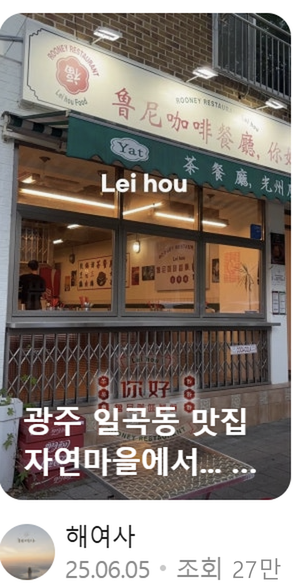
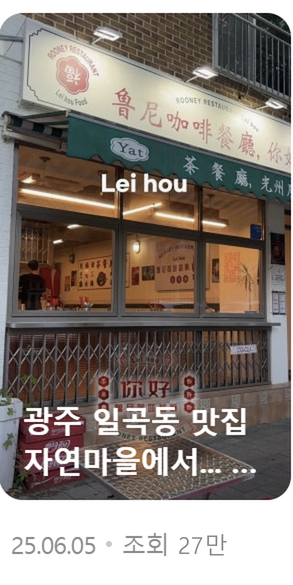
PDF 빛 테두리 깨짐·흐림 잔상 수정, 클립 계정 정보 가림, 주만추 구조도 라벨 간격
- 인쇄에서 회전 빛 테두리(마스크) 대신 얇은 테두리
- 연출이 끝나면 filter를 지워 그라데이션 글자 가장자리 선 제거
- Lei hou 클립 화면에서 계정 이름·프로필 사진 지움
- 주만추 구조도 본인 담당 타일을 내려 라벨과 겹치지 않게

Changed region(s): [[0.0, 0.8923, 0.5836, 1.0], [0.6143, 0.8923, 0.7679, 1.0], [0.7986, 0.9538, 0.9522, 1.0]]

diff --git a/index.html b/index.html
@@ -350,7 +350,10 @@ html.static .ctl,html.static .rot,html.static .hint{display:none}
   .deck-stage{position:static;transform:none!important;width:1920px;height:auto;overflow:visible}
   .slide{position:relative;visibility:visible!important;width:1920px;height:1080px;break-after:page;opacity:1!important}
   .sumov,.blades,.prog,.ctl,.rot,.hint,canvas.dust{display:none!important}
-  .glow,.g,.gl::after,.node::after,.beam::before{animation:none!important}
+  .glow,.g,.gl::after,.node::after{animation:none!important}
+  /* 회전 빛 테두리는 마스크가 PDF에서 풀려 카드 전체를 덮으므로 끄고 얇은 테두리로 */
+  .beam::before{display:none!important}
+  .beam{box-shadow:0 0 0 2px rgba(30,107,255,.38)!important}
   /* 흐림 필터·큰 그림자는 PDF에서 그림으로 굳어 파일이 커져, 벡터 그라데이션과 얇은 선으로 바꿈 */
   .glow{filter:none!important;background:radial-gradient(closest-side,var(--c),transparent)!important;opacity:calc(var(--o,.14) * 1.5)}
   .bz,.shot,.photo{box-shadow:0 0 0 1px var(--line)!important}
@@ -664,7 +667,7 @@ html.static .ctl,html.static .rot,html.static .hint{display:none}
     <path data-step="1" data-fx="draw" data-at=".65" d="M1120 510 H 1256"/>
     <text data-step="1" data-fx="fade" data-at=".5" x="632" y="360" text-anchor="middle">실시간 시세</text>
     <text data-step="1" data-fx="fade" data-at=".5" x="632" y="548" text-anchor="middle">DNA · 점수</text>
-    <path data-step="2" data-fx="draw" d="M1516 584 V 620 H 321 V 676"/>
+    <path data-step="2" data-fx="draw" d="M1516 584 V 620 H 321 V 704"/>
     <text data-step="2" data-fx="fade" data-at=".6" x="960" y="610" text-anchor="middle">JSON 응답</text>
   </svg>
   <div data-step="1" data-fx="rise"><div class="iso" style="left:144px;top:316px;width:420px;height:116px"><span class="bi" data-ic="landmark"></span><div class="tx"><div class="n">외부 API</div><div class="s">한국투자증권 · DART</div></div></div></div>
@@ -672,16 +675,16 @@ html.static .ctl,html.static .rot,html.static .hint{display:none}
   <div data-step="1" data-fx="rise" data-at=".35"><div class="iso" style="left:700px;top:316px;width:420px;height:116px"><span class="bi" data-ic="redis"></span><div class="tx"><div class="n">Redis</div><div class="s">시세 임시 보관</div></div></div></div>
   <div data-step="1" data-fx="rise" data-at=".45"><div class="iso" style="left:700px;top:452px;width:420px;height:116px"><span class="bi" data-ic="postgresql"></span><div class="tx"><div class="n">PostgreSQL</div><div class="s">종목 · 재무 · 점수</div></div></div></div>
   <div data-step="1" data-fx="pop" data-at=".7"><div class="iso" style="left:1256px;top:316px;width:520px;height:252px"><span class="bi" data-ic="django"></span><div class="tx"><div class="n">Django REST</div><div class="s">도메인 API · 인증</div></div></div></div>
-  <div class="zone" style="left:120px;top:640px;width:1680px;height:166px" data-step="2" data-fx="fade"></div>
+  <div class="zone" style="left:120px;top:640px;width:1680px;height:196px" data-step="2" data-fx="fade"></div>
   <div class="abs" style="right:168px;top:652px" data-step="2" data-fx="rise"><span class="tag sm">프론트엔드 · 본인 담당</span></div>
-  <div data-step="2" data-fx="rise" data-at=".5"><div class="iso hot" style="left:144px;top:676px;width:354px;height:104px"><span class="bi" data-ic="axios"></span><div class="tx"><div class="n">API 클라이언트</div><div class="s">도메인 함수 · 토큰</div></div></div></div>
-  <span class="arw" style="left:514px;top:704px" data-step="2" data-fx="fade" data-at=".7">→</span>
-  <div data-step="2" data-fx="rise" data-at=".65"><div class="iso hot" style="left:570px;top:676px;width:354px;height:104px"><span class="bi" data-ic="pinia"></span><div class="tx"><div class="n">Pinia 스토어</div><div class="s">로그인 · 테마 · 관심</div></div></div></div>
-  <span class="arw" style="left:940px;top:704px" data-step="2" data-fx="fade" data-at=".85">→</span>
-  <div data-step="2" data-fx="rise" data-at=".8"><div class="iso hot" style="left:996px;top:676px;width:354px;height:104px"><span class="bi" data-ic="vue"></span><div class="tx"><div class="n">Vue 화면</div><div class="s">홈 · 종목 · 포트폴리오</div></div></div></div>
-  <span class="arw" style="left:1366px;top:704px" data-step="2" data-fx="fade" data-at="1">→</span>
-  <div data-step="2" data-fx="rise" data-at=".95"><div class="iso hot" style="left:1422px;top:676px;width:354px;height:104px"><span class="bi" data-ic="layers"></span><div class="tx"><div class="n">스와이프 덱</div><div class="s">추천 카드 넘기기</div></div></div></div>
-  <div class="notes3" style="top:852px" data-step="3" data-fx="rows">
+  <div data-step="2" data-fx="rise" data-at=".5"><div class="iso hot" style="left:144px;top:704px;width:354px;height:104px"><span class="bi" data-ic="axios"></span><div class="tx"><div class="n">API 클라이언트</div><div class="s">도메인 함수 · 토큰</div></div></div></div>
+  <span class="arw" style="left:514px;top:732px" data-step="2" data-fx="fade" data-at=".7">→</span>
+  <div data-step="2" data-fx="rise" data-at=".65"><div class="iso hot" style="left:570px;top:704px;width:354px;height:104px"><span class="bi" data-ic="pinia"></span><div class="tx"><div class="n">Pinia 스토어</div><div class="s">로그인 · 테마 · 관심</div></div></div></div>
+  <span class="arw" style="left:940px;top:732px" data-step="2" data-fx="fade" data-at=".85">→</span>
+  <div data-step="2" data-fx="rise" data-at=".8"><div class="iso hot" style="left:996px;top:704px;width:354px;height:104px"><span class="bi" data-ic="vue"></span><div class="tx"><div class="n">Vue 화면</div><div class="s">홈 · 종목 · 포트폴리오</div></div></div></div>
+  <span class="arw" style="left:1366px;top:732px" data-step="2" data-fx="fade" data-at="1">→</span>
+  <div data-step="2" data-fx="rise" data-at=".95"><div class="iso hot" style="left:1422px;top:704px;width:354px;height:104px"><span class="bi" data-ic="layers"></span><div class="tx"><div class="n">스와이프 덱</div><div class="s">추천 카드 넘기기</div></div></div></div>
+  <div class="notes3" style="top:870px" data-step="3" data-fx="rows">
     <div><b>1</b><p>시세는 Redis에 잠시 보관,<br>종목 · 재무 · 점수는 PostgreSQL</p></div>
     <div><b>2</b><p>추천 · 장투 케어 로직이<br>궁합 점수와 AI 리포트 생성</p></div>
     <div><b>3</b><p>API 호출은 클라이언트 한 곳에서,<br>화면 간 상태는 Pinia로 공유</p></div>
@@ -836,7 +839,8 @@ document.querySelectorAll('.slide[data-pg]').forEach(s => {
 /* =========================================================
    2. FX 사전 — data-fx 이름 → GSAP 트윈 (모두 '들어올 때'만)
    ========================================================= */
-const T = (el, from, to) => gsap.fromTo(el, from, to);
+// 끝나면 filter를 지움 — blur(0px)가 남으면 그라데이션 글자(.g) 가장자리에 얇은 선이 생김
+const T = (el, from, to) => gsap.fromTo(el, from, 'filter' in to ? { ...to, clearProps: 'filter' } : to);
 const FX = {
   rise: el => T(el, { autoAlpha: 0, y: 60, filter: 'blur(10px)' }, { autoAlpha: 1, y: 0, filter: 'blur(0px)', duration: 1.1, ease: 'snap' }),
   tilt: el => T(el, { autoAlpha: 0, rotationX: 55, z: -500, y: 90, filter: 'blur(12px)', transformOrigin: '50% 100%' }, { autoAlpha: 1, rotationX: 0, z: 0, y: 0, filter: 'blur(0px)', duration: 1.3, ease: 'snap' }),
